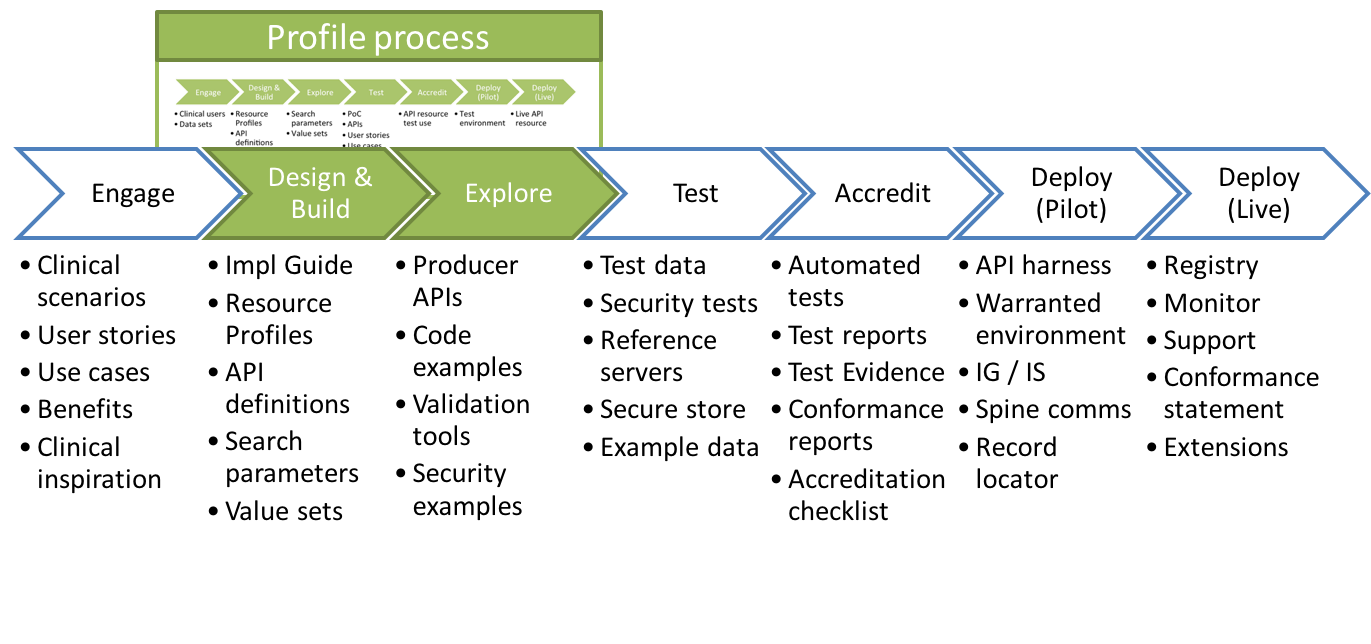
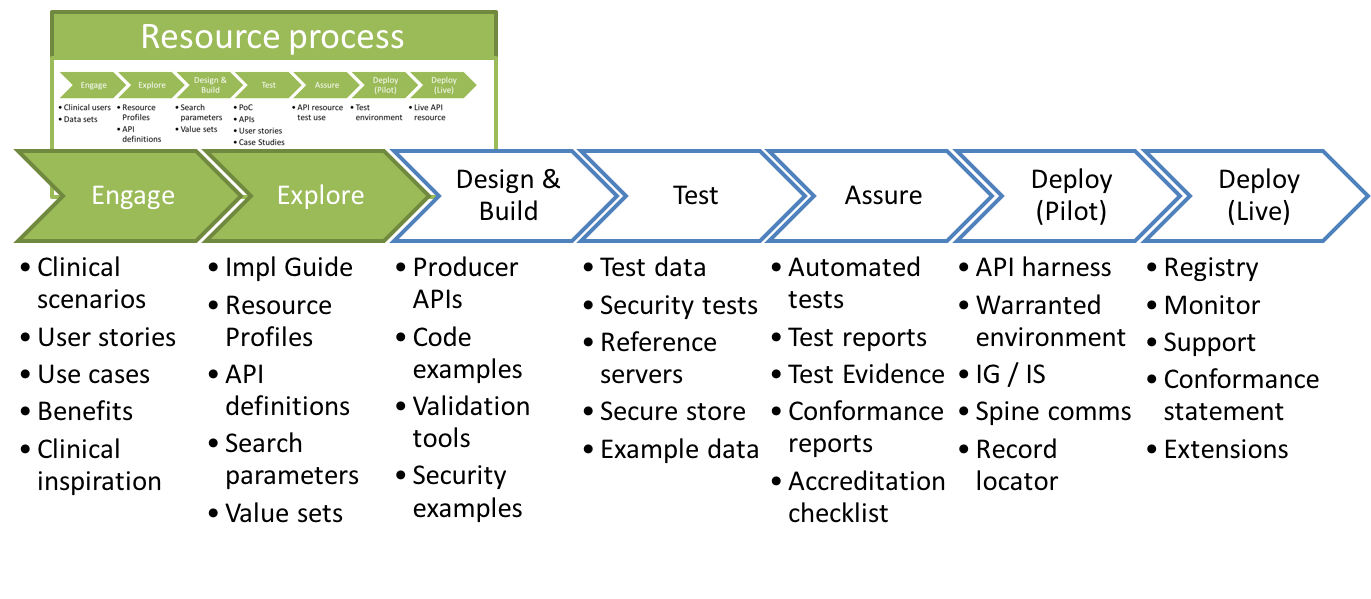
Updated images for clarity

Changed region(s): [[0.0, 0.0, 1.0, 0.8715], [0.3063, 0.8414, 0.3982, 0.8715], [0.1532, 0.8414, 0.2451, 0.8715]]

diff --git a/pages/overview/overview_api_journey.md b/pages/overview/overview_api_journey.md
@@ -22,7 +22,7 @@ The above steps outline a complete API journey .
 
 The current site focuses on a typical API Developer's Journey as highlighted by the green boxes below in the developer journey:
 
-<img src="images/roadmap/profile-focus.jpg" style="width:100%;max-width: 100%;">
+<img src="images/roadmap/profile-focus.png" style="width:100%;max-width: 100%;">
 
 NHS Digital is contributing to progressing the profile developmenet, the testing process and invitations are open for the INTEROPen community to get involved and progress the wider developer ecosystem. Please see the explanation of the complete development roadmap below.
 
@@ -32,7 +32,7 @@ NHS Digital is contributing to progressing the profile developmenet, the testing
 
 The current site focuses on a typical API Developer's Journey as highlighted by the green boxes below in the developer journey:
 
-<img src="images/roadmap/guide-focus.jpg" style="width:100%;max-width: 100%;">
+<img src="images/roadmap/guide-focus.png" style="width:100%;max-width: 100%;">
 
 NHS Digital is contributing to progressing the profile developmenet, the testing process and invitations are open for the INTEROPen community to get involved and progress the wider developer ecosystem.
 

diff --git a/pages/overview/overview_api_provide.md b/pages/overview/overview_api_provide.md
@@ -27,7 +27,7 @@ Please see the explanation of the complete development roadmap.
 
 The current site focuses on a typical API Developer's Journey as highlighted by the green boxes below in the developer journey:
 
-<img src="images/roadmap/guide-focus.jpg" style="width:100%;max-width: 100%;"> 
+<img src="images/roadmap/guide-focus.png" style="width:100%;max-width: 100%;"> 
 
 NHS Digital is contributing to progressing the profile developmenet, the testing process and invitations are open for the INTEROPen community to get involved and progress the wider developer ecosystem. 
 
